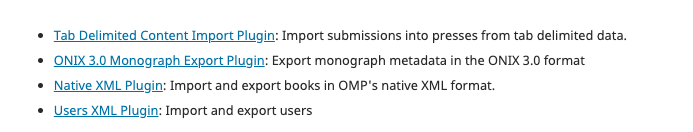
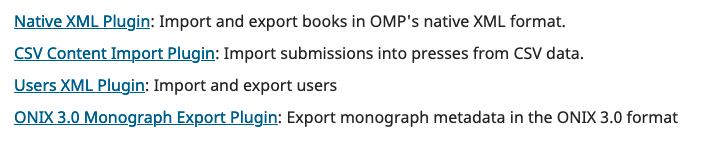
Add new documentation about CSV impor export tool for OMP 3.3 (#1256)

Changed region(s): [[0.0, 0.0909, 0.9091, 0.697], [0.0, 0.7273, 0.9697, 0.9091]]

diff --git a/admin-guide/3.3/en/data-import-and-export.md b/admin-guide/3.3/en/data-import-and-export.md
@@ -83,6 +83,54 @@ To export article and issue metadata using the Native XML Plugin:
 
 ![The Export Articles tab under the Native XML Plugin.](./assets/native-xml-plugin-export.png)
 
+### OMP CSV Import
+
+The CSV Content Import Plugin for OMP is a command line tools that allows users to import publications from a CSV file, along with cover images and submission PDFs. This tool will convert a CSV file into OMP publications, where each row represents a publication.
+
+> Note: This is NOT a comprehensive CSV converter, and many fields are left out.
+
+#### Formatting the CSV file
+
+Each row in the CSV must be in this format:
+
+```
+pressPath,authorString,title,abstract,seriesPath,year,isEditedVolume,locale,filename,doi,keywords,subjects,bookCoverImage,bookCoverImageAltText,categories,genreName
+```
+
+1. **pressPath**: **(required)** is the path for the press where the user wants to import a publication. If not present, the tool will skip this submission.
+2. **authorString**: **(required)** is the list of authors presents on the submission. For each author, it contains the given name, the surname and the email address. For each author, the string format must be on the following format: `Author1,Surname1,author@pkp.sfu.ca`.
+  - The author's data must be inside double quotes as follows: `"Author1,Surname1,author@pkp.sfu.ca;Author2,Surname2,author2@sfu.pkp.ca"`;
+  - The information between the authors must be separated by a semicolon as shown above;
+  - The family name and email address are both optional, so if some of these fields are not present, continue using the comma and leave the space for this field blank (e.g. `"Author1,,email@email.com;Author2,Surname2,;Author3,,"`).
+3. **title**: **(required)** the submission's title.
+4. **abstract**: **(required)** the submission's abstract.
+5. **seriesPath**: the path for the series, which must exist in the press.
+6. **year**: the submission's year.
+7. **isEditedVolume**: sets the `work_type` for the submission.
+8. **locale**: **(required)** the submission's locale. Must be one of the supported locales for this press. If it's not present, the tool will skip this submission.
+9. **filename**: **(required)** the submission file name. It must be present on the same directory as the `CSV` file.
+10. **doi**: the submission's DOI.
+11. **keywords**: the submission's keywords. If the submission presents more than one keyword, they need to be separated by a semicolon (e.g. `keyword1;keyword2`);
+12. **subjects**: the submission's subjects. If the submission presents more than one subject, they need to be separated by a semicolon (e.g. `subject1;subject2`);
+13. **bookCoverImage**: the book cover image filename. This file must be in the same directory as the `CSV` file and should be in one of these formats: *gif, jpg, png or webp*. If the image isn't in one of these formats, it won't be imported.
+14. **bookCoverImageAltText**: the alt text for the book cover image. It'll only work if the bookCoverImage is present.
+15. **categories**: the submission's categories. All categories present here must be already added to the Press to work correctly. If the submission presents more than one category, they must be separated by a semicolon (e.g. `Category 1;Category 2`).
+16. **genreName**: the submission's genre. If this field comes empty, the system will assume the **MANUSCRIPT** genre by default
+
+#### Importing the CSV Data
+
+1. Create the CSV file. You can use the `sample.csv` file as an example.
+2. Place your CSV file in a directory of your preference on your server.
+3. Place all cover images and submission files in the same directory as the CSV file. The Submission PDFs and the cover images must have the same filename as in the CSV file.
+4. From the command line, starting on the OMP root directory, run the following command, where `<BASE_PATH>` is where the CSV file is located, `<CSV_FILE_NAME>` is the name of the CSV file and `<USERNAME>` is a valid OMP username:
+```
+php tools/importExport.php CSVImportExportPlugin <BASE_PATH>/<CSV_FILE_NAME>.csv <USERNAME>
+```
+
+The tool will import the publications for every row where data was correctly entered. 
+
+If any data was entered incorrectly, the tool will output any rows that did not import and the reason that each failed, and a CSV file called `invalid_rows.csv` will be generated with more details.
+
 ## Import and export users
 
 ### Export users to XML

diff --git a/learning-omp/3.3/en/tools.md b/learning-omp/3.3/en/tools.md
@@ -10,11 +10,11 @@ description: A guide to understanding the import/export and statistics tools in 
 
 ![The list of import and export tools in OMP.](./assets/learning_omp-tools-import_export.png)
 
-OMP provides a number of tools to import and export data into and out of your press. Please see [PKP’s Administrator’s Guide](/admin-guide/en/data-import-and-export) for information on how to use the Native XML Plugin and the Users XML Plugin. Please also note that the Quick Submit Plugin is not available for OMP.
+OMP provides a number of tools to import and export data into and out of your press. Please see [PKP’s Administrator’s Guide](/admin-guide/3.3/en/data-import-and-export) for information on how to use the Native XML Plugin, the Users XML Plugin, and [the CSV Content Import Plugin](/admin-guide/3.3/en/data-import-and-export#omp-csv-import). The CSV Content Import Plugin can only be used with the command line.
+
+Please also note that the Quick Submit Plugin is not available for OMP.
 
 To export using the ONIX 3.0 Monograph Export Plugin, you need to ensure that all of the fields are completed under Settings > Press > Publisher Identity.
-
-The Tab Delimited Content Import Plugin can only be used with the command line.
 
 ## Statistics
 
